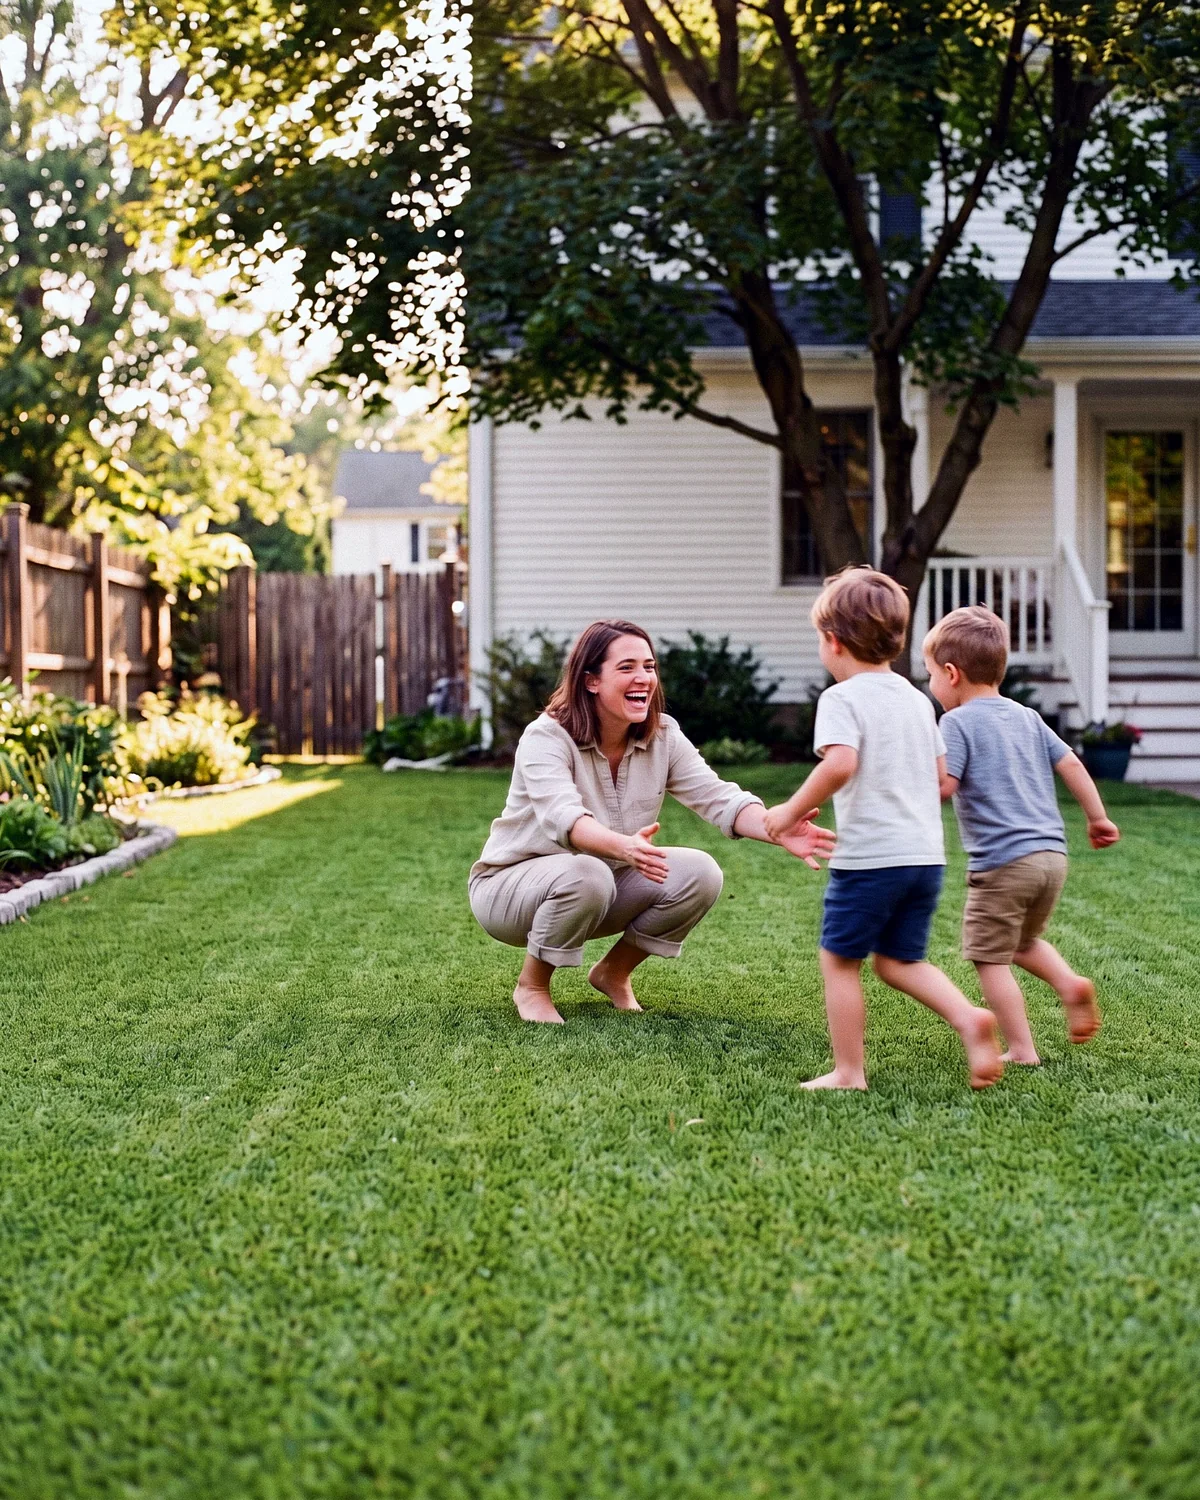
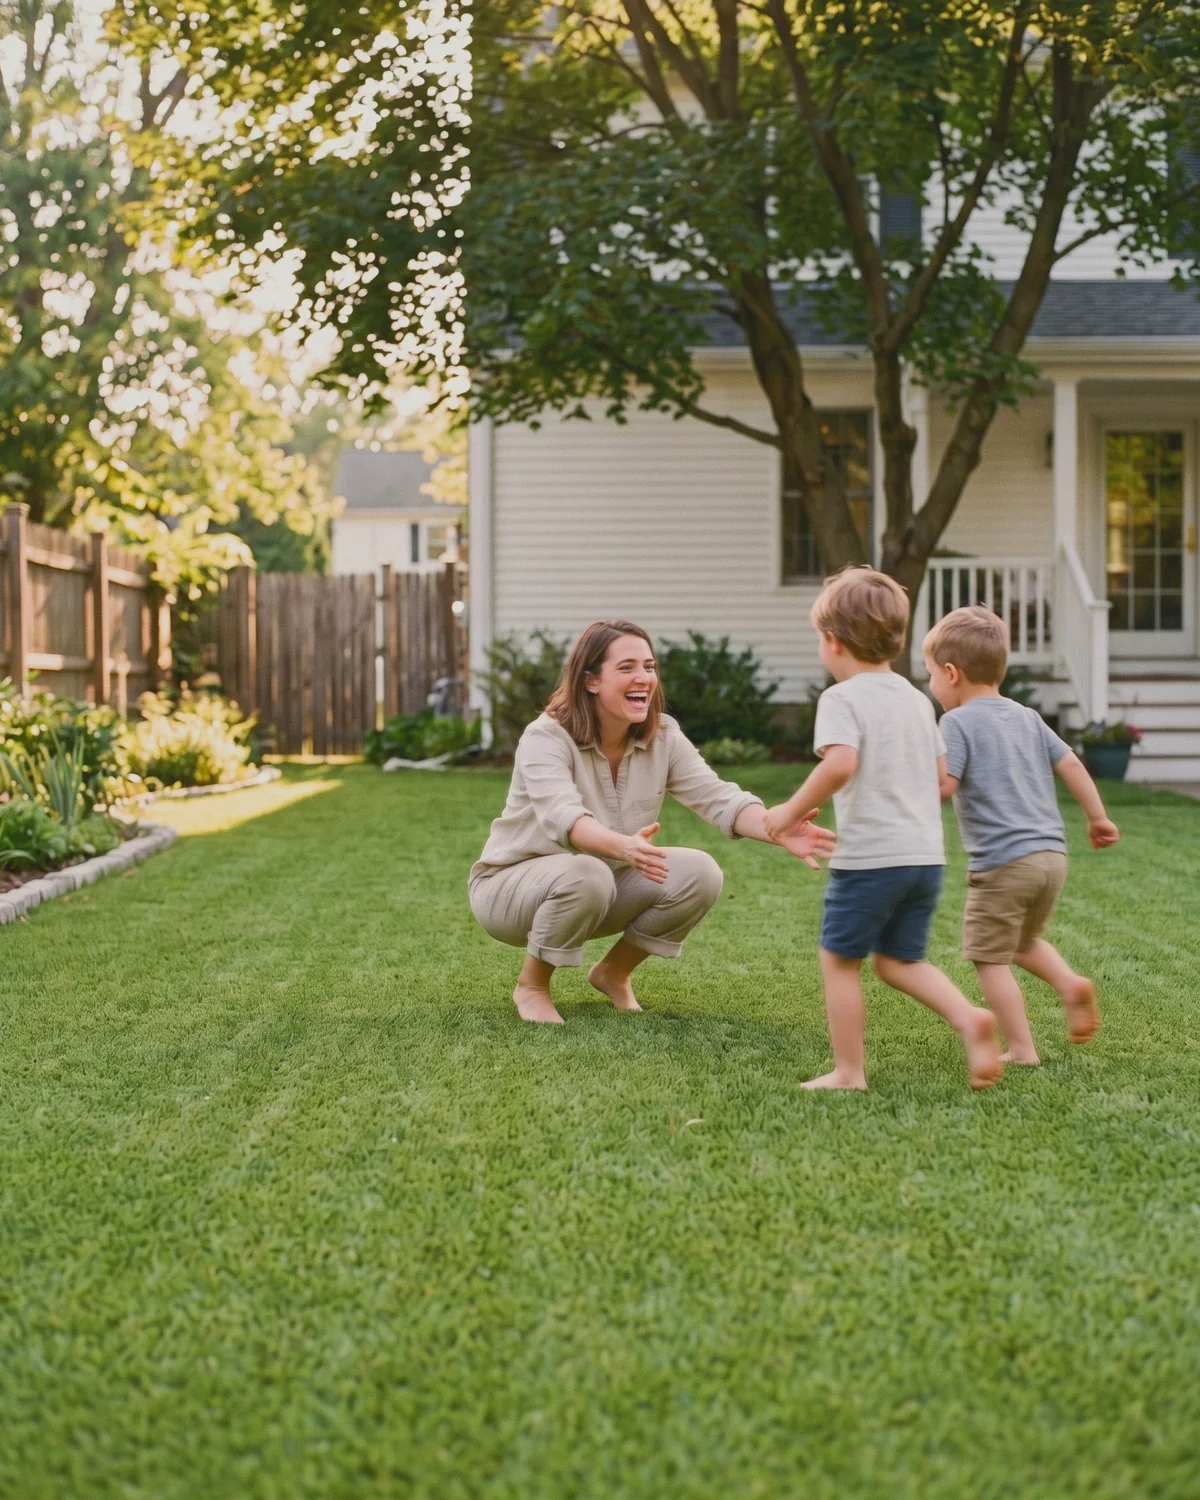
Lifestyle photos use the Instagram post grade (brightness .9, saturate 1.2)

diff --git a/scripts-ai.py b/scripts-ai.py
@@ -3,17 +3,14 @@ import os, numpy as np
 from PIL import Image, ImageFilter
 SRC, OUT = 'public/img/ai/', 'public/img/ai/web/'
 os.makedirs(OUT, exist_ok=True)
-def grade(im, seed=7):
-    # Photographic, not AI-smooth: clear the haze, real blacks, an S-curve, a touch of sharpening and fine grain.
-    im = im.filter(ImageFilter.UnsharpMask(radius=2.2, percent=35, threshold=2))
-    a = np.asarray(im).astype(np.float32) / 255
-    lo = np.percentile(a, 0.6, axis=(0, 1)); hi = np.percentile(a, 99.7, axis=(0, 1))
-    a = np.clip((a - lo) / (hi - lo), 0, 1)
-    a = np.clip(a + .5 * a * (1 - a) * (a - .5), 0, 1) ** 1.02
-    lum = a.mean(2, keepdims=True); a = lum + (a - lum) * 1.1
-    a[..., 0] *= .99; a[..., 2] *= 1.01
-    g = np.random.default_rng(seed).normal(0, .009, a.shape[:2])[..., None]
-    a = a + g * (1 - np.abs(a - .5))
+def grade(im):
+    # Same look as the Instagram posts: brightness .9, saturate 1.2 (CSS filter math).
+    a = np.asarray(im).astype(np.float32) / 255 * .9
+    sat = 1.2
+    M = np.array([[.213 + .787 * sat, .715 - .715 * sat, .072 - .072 * sat],
+                  [.213 - .213 * sat, .715 + .285 * sat, .072 - .072 * sat],
+                  [.213 - .213 * sat, .715 - .715 * sat, .072 + .928 * sat]], np.float32)
+    a = a @ M.T
     return Image.fromarray((np.clip(a, 0, 1) * 255).astype(np.uint8))
 JOBS = {  # name: (file, centre y as fraction, aspect w/h, output widths)
   'family-wide':   ('family.jpg',   .50, 16/9, (1856, 1200)),
